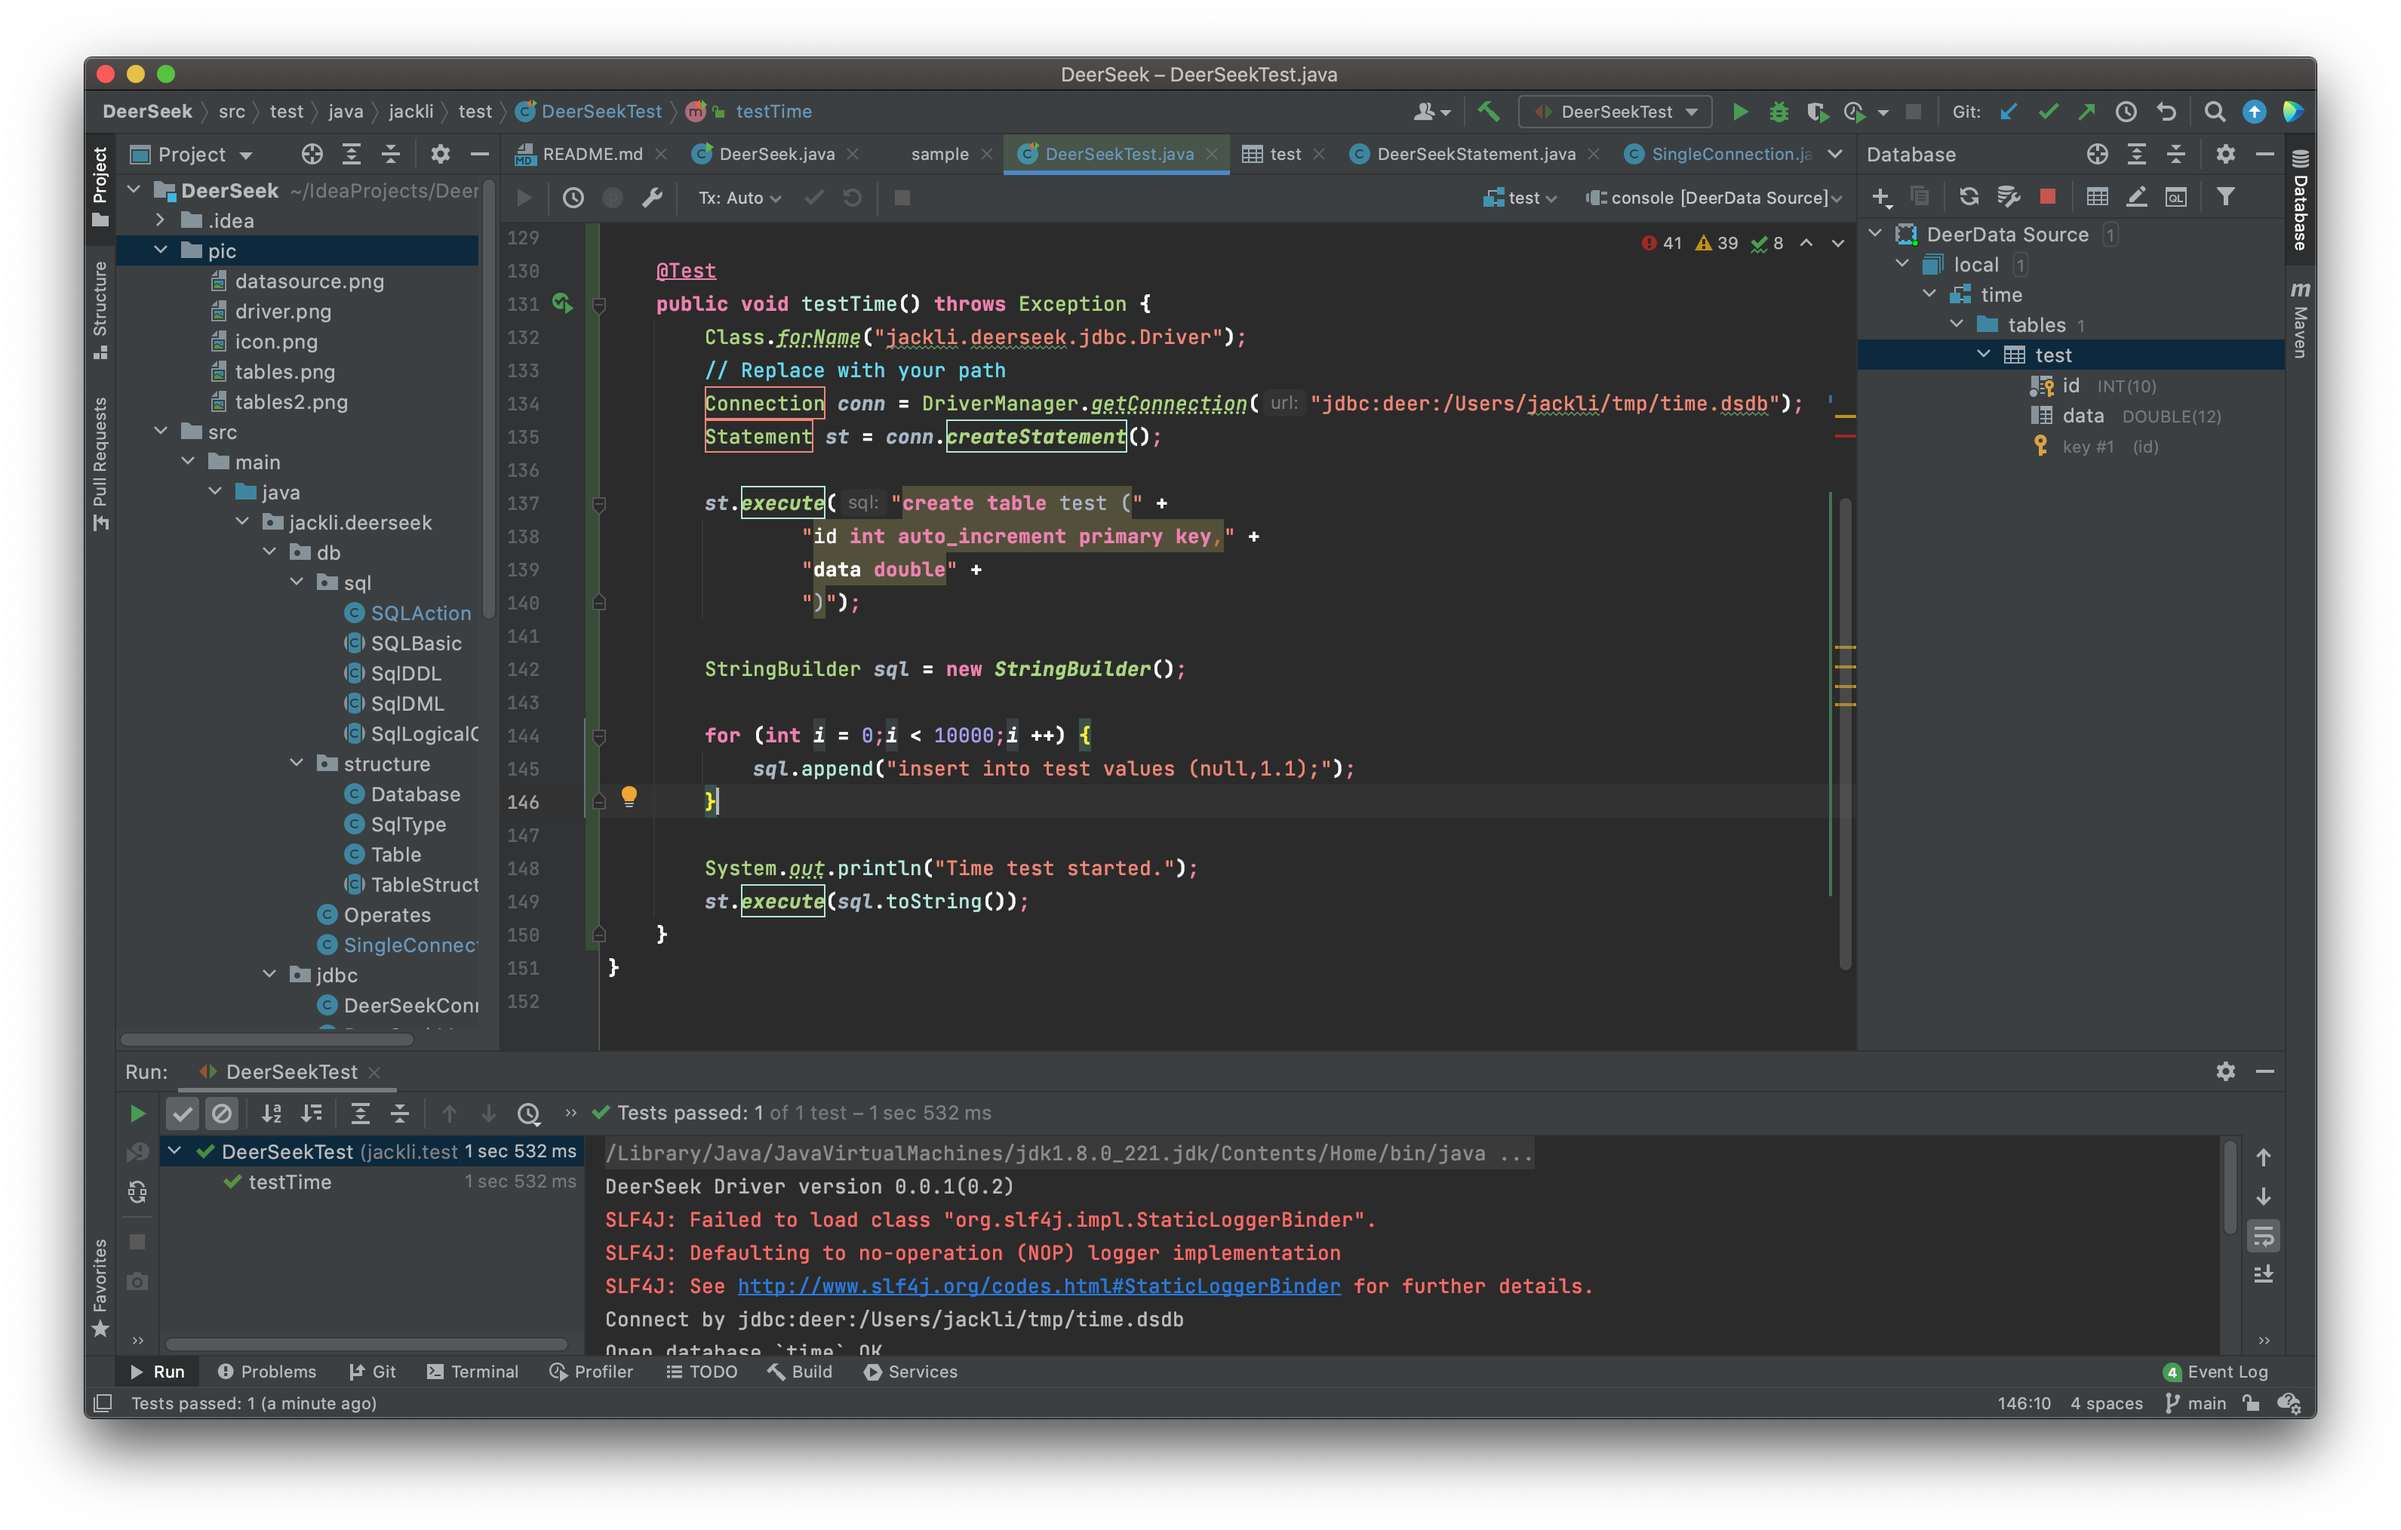
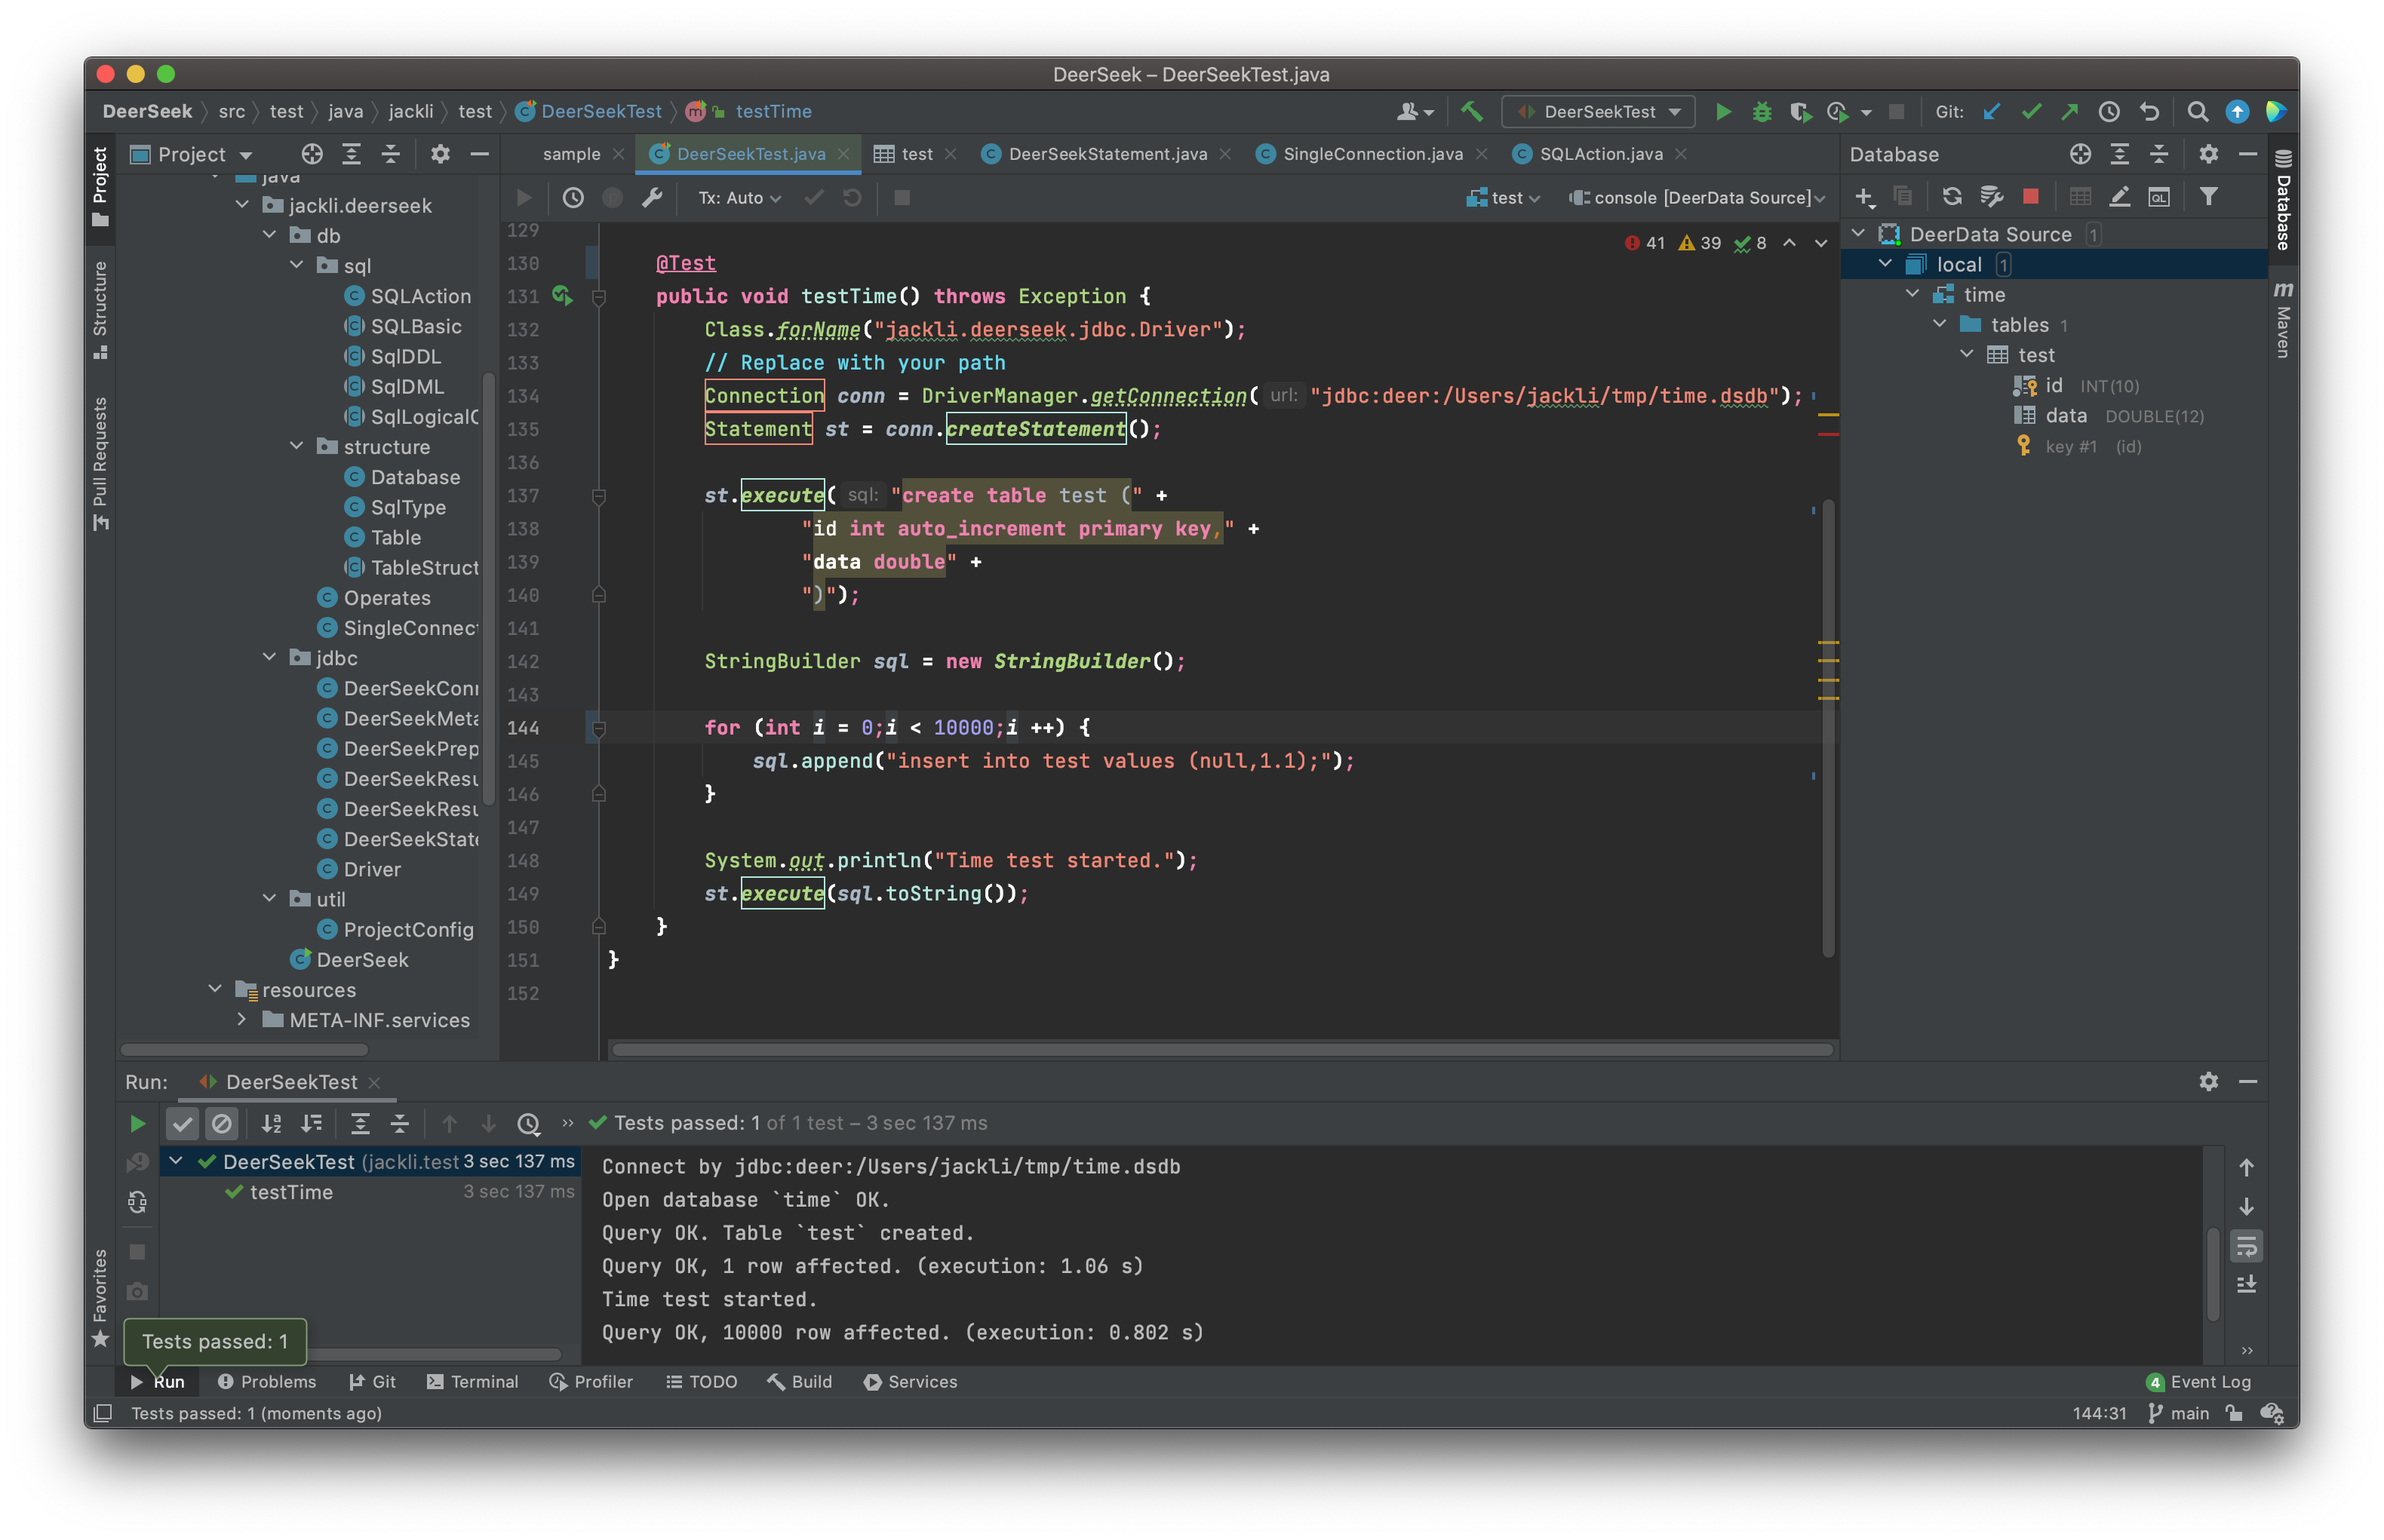
Add execute time.

diff --git a/src/test/java/jackli/test/DeerSeekTest.java b/src/test/java/jackli/test/DeerSeekTest.java
@@ -5,7 +5,7 @@ import org.junit.Test;
 import java.sql.*;
 
 public class DeerSeekTest {
-    @Test
+//    @Test
     public void testConnection() throws Exception
     {
 
@@ -127,7 +127,7 @@ public class DeerSeekTest {
         }
     }
 
-//    @Test
+    @Test
     public void testTime() throws Exception {
         Class.forName("jackli.deerseek.jdbc.Driver");
         // Replace with your path
@@ -141,7 +141,7 @@ public class DeerSeekTest {
 
         StringBuilder sql = new StringBuilder();
 
-        for (int i = 0;i < 100000;i ++) {
+        for (int i = 0;i < 10000;i ++) {
             sql.append("insert into test values (null,1.1);");
         }
 
